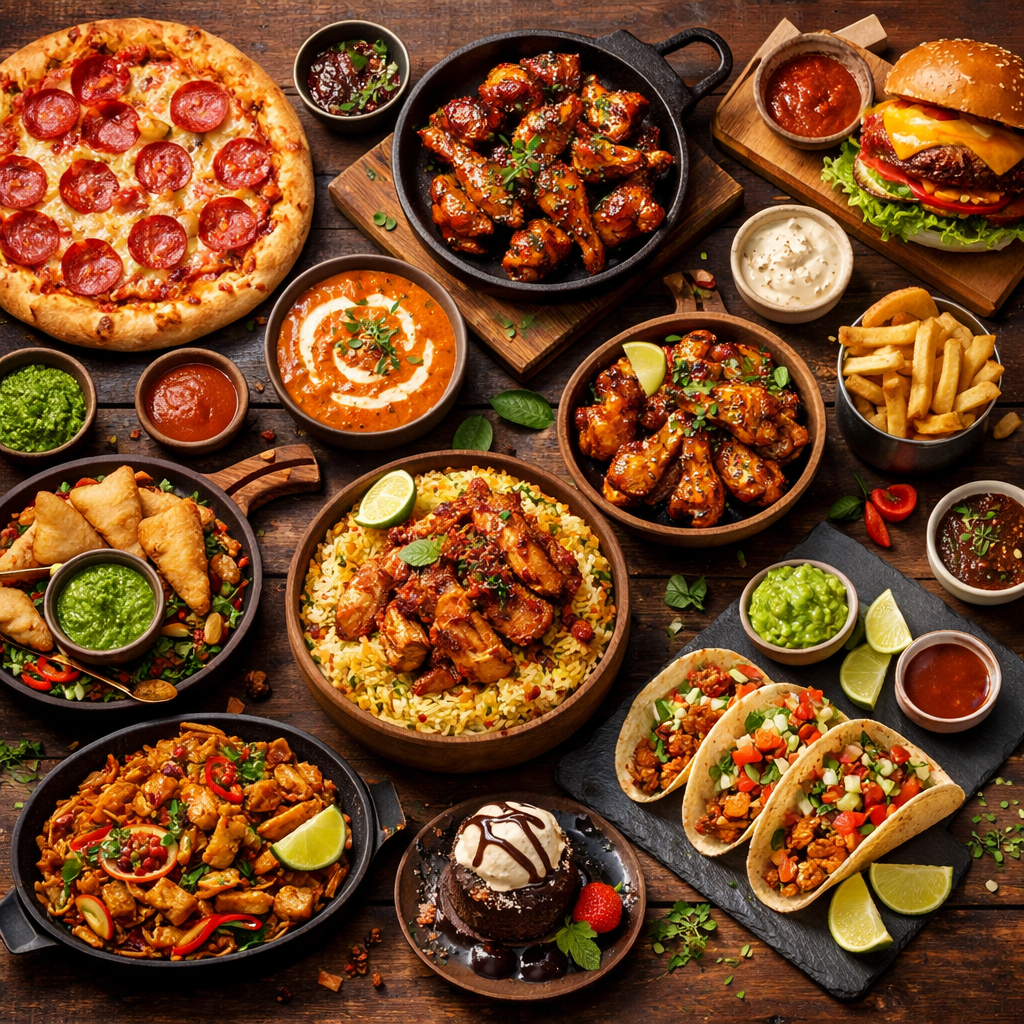
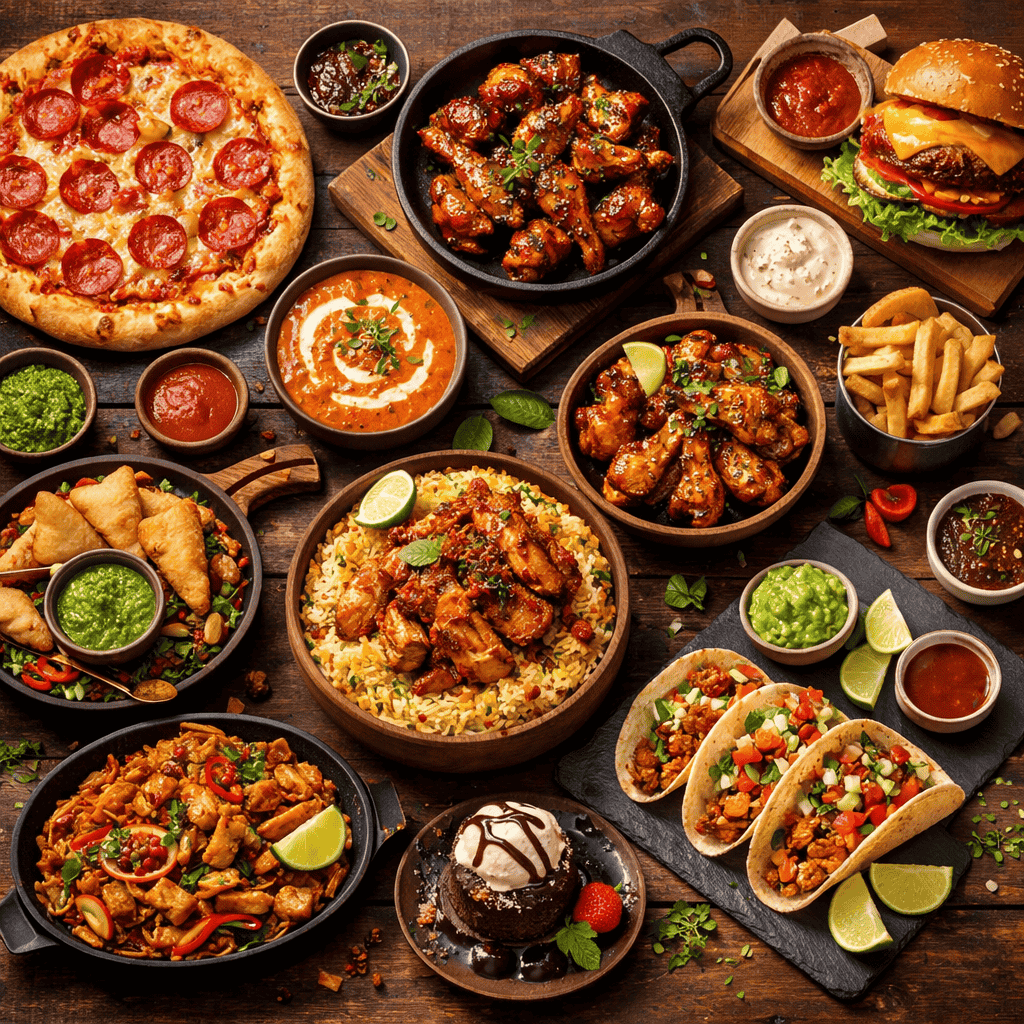
added

diff --git a/src/components/HowItWorks.jsx b/src/components/HowItWorks.jsx
@@ -1,10 +1,10 @@
 import { useState, useEffect, useRef } from "react";
 import colors from "../theme/colors";
-import dishes from "../../src/assets/cardDishes.png";
-import customDish from "../assets/customdish.png";
-import GetTheBill from "../assets/GetTheBill.png";
-import Paysecurely from "../assets/Paysecurely.png";
-import delivery from "../assets/delivery.png";
+import dishes from "../../src/assets/cardDishes.jpg";
+import customDish from "../assets/customdish.jpg";
+import GetTheBill from "../assets/GetTheBill.jpg";
+import Paysecurely from "../assets/securebill.jpg";
+import delivery from "../assets/delivery.jpg";
 
 function HowItWorks() {
   const sectionRef = useRef(null);
